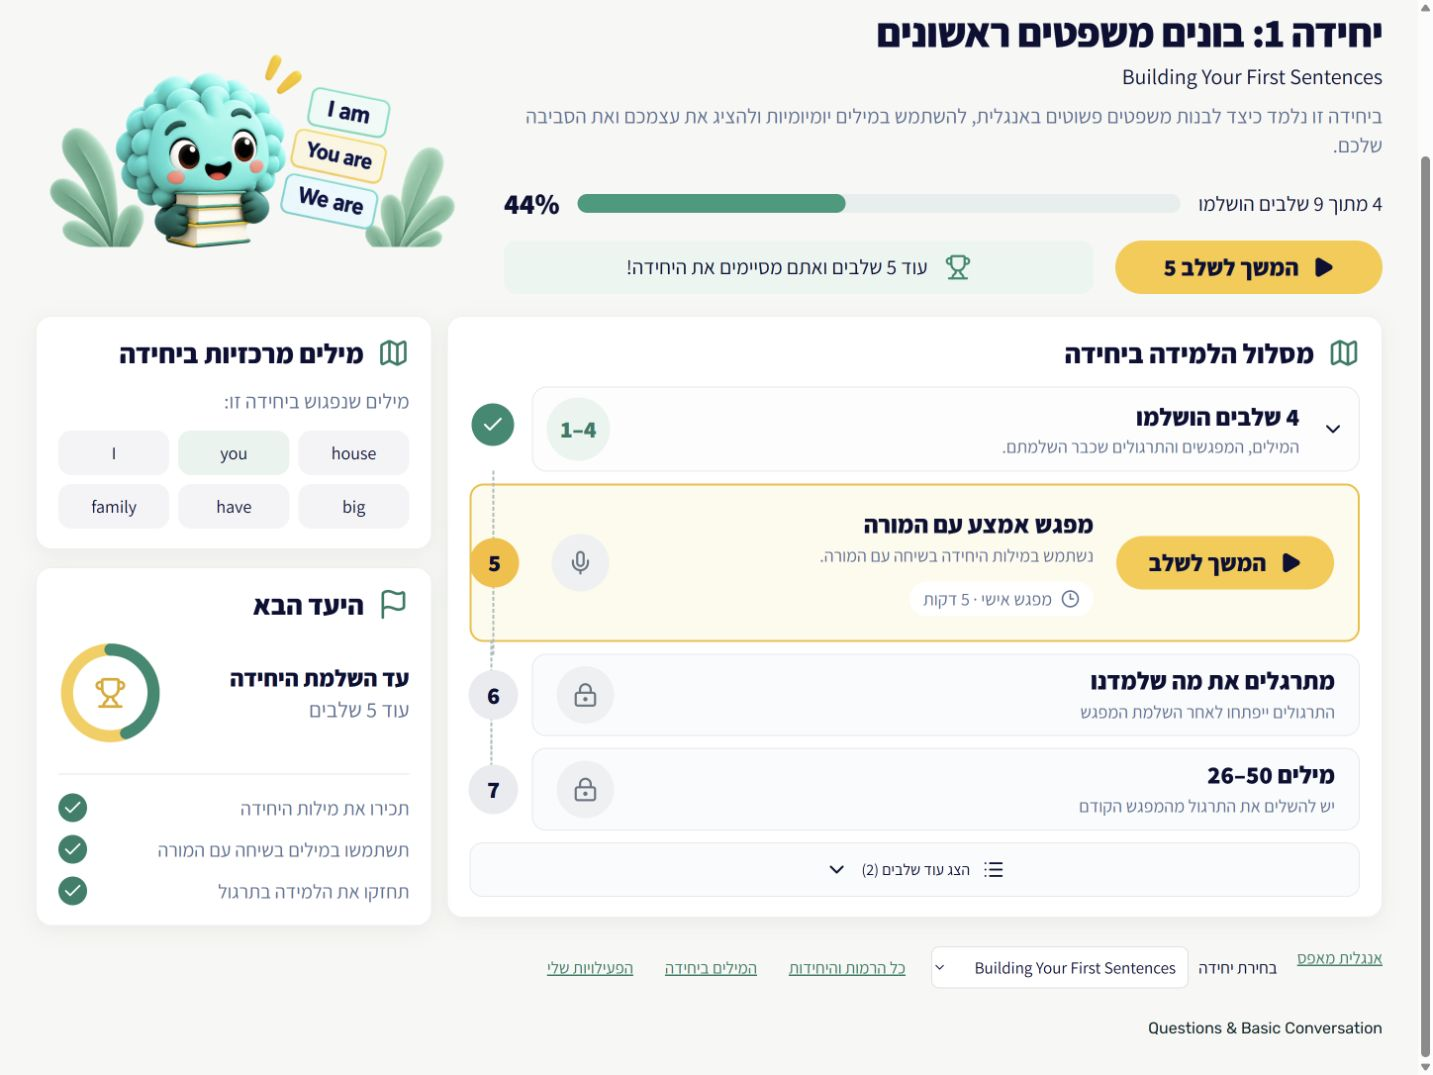
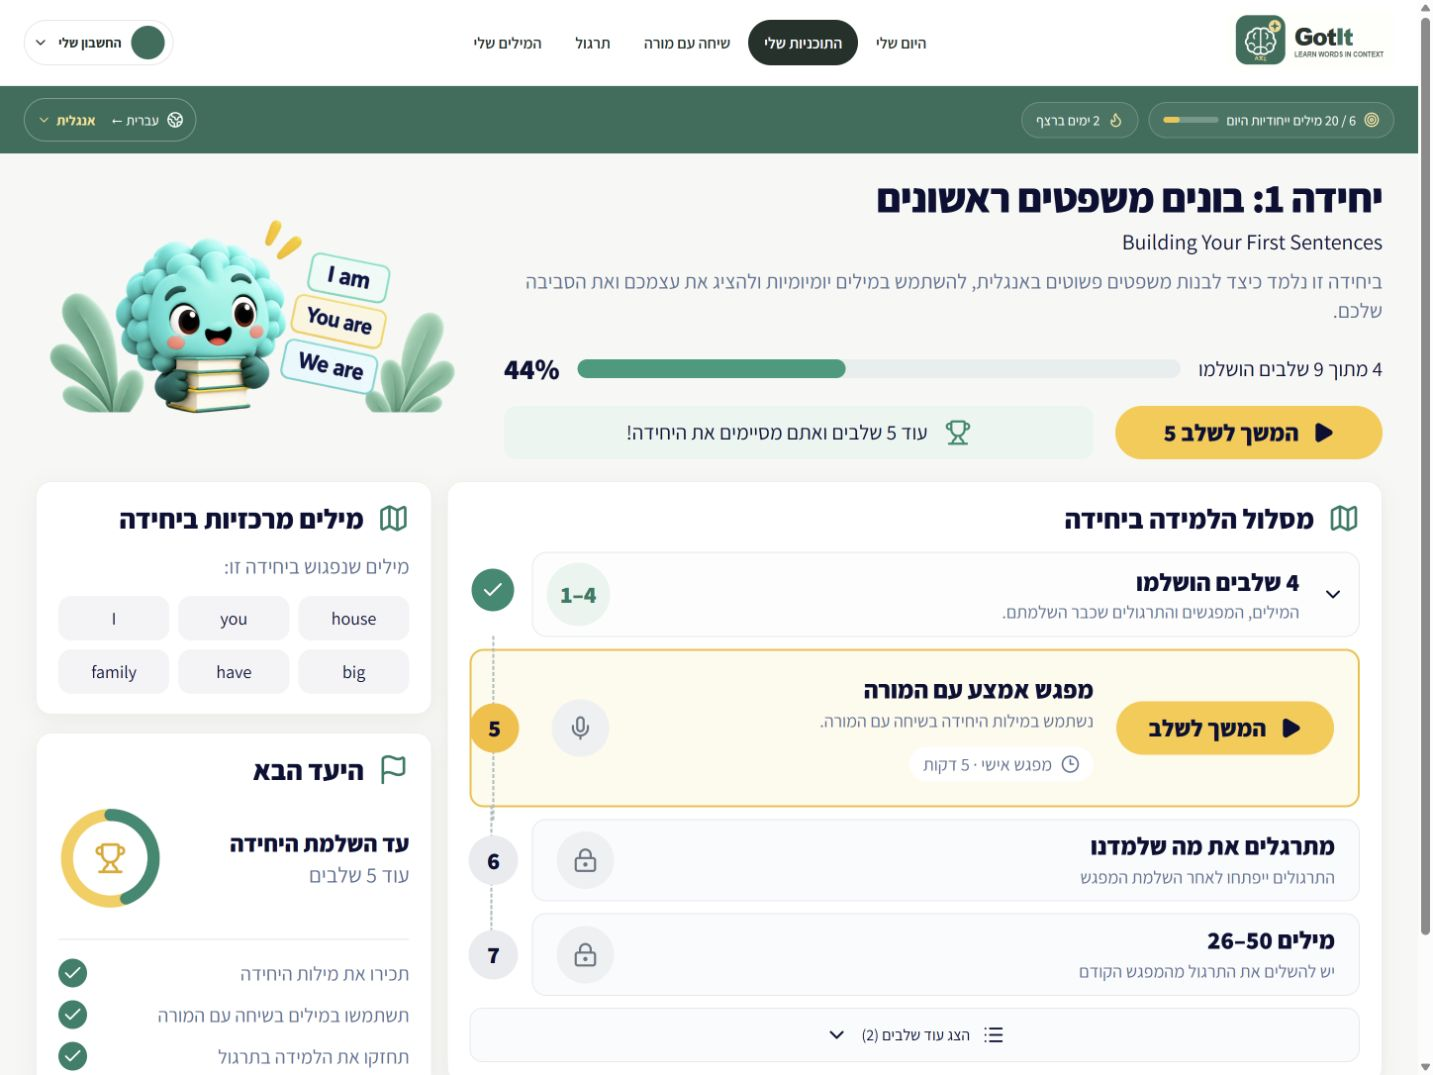
docs(program-map): record DEV release and live acceptance limits

diff --git a/docs/program-map/README.md b/docs/program-map/README.md
@@ -54,4 +54,20 @@ quality 88 without changing composition or alpha. No runtime image-generation
 request/quota. Prompt: `public/assets/program-map/hero.prompt.txt`.
 
 DEV release and authenticated acceptance are recorded in `evidence/release.json`
-once observed. Rollback source: previous live Web `06b1764883f8cef69d9dcac08713e3fa2699a868`.
+with the observed final Live release. Rollback source: previous live Web `06b1764883f8cef69d9dcac08713e3fa2699a868`.
+
+Final live-acceptance fixes: null homework duration is omitted (regression covered);
+map-scoped container selector wins over legacy shell width. The preview now includes
+all actual global styles and focus/path classes. See exact DEV release evidence.
+
+Known live data limitation: selecting Unit 2 returned a response rejected by the
+unchanged strict unit-path parser, including after explicit read retry. The map
+shows its localized error/retry state and no fabricated progress. Unit 1 map,
+word-browser navigation and return passed; no provider or homework preparation
+was triggered. This task does not weaken the shared contract to hide invalid data.
+
+Final DEV Web source: `edfdb63c3d64a6684cf09891fd980815940e2b0d`, Render deployment
+`dep-db75pess728c73dhlo9g`, Deploy succeeded / Live in 1m03s. Final authenticated
+unit-1 desktop and 320px smoke passed; zero console error/warning logs. `/ready`
+returned 200. See the known Unit 2 contract-validation limitation above. No lesson,
+provider, score, reward, migration or production action was performed.

diff --git a/design-qa.md b/design-qa.md
@@ -66,4 +66,21 @@ ESLint and production build passed. Full responsive suite and physical-device
 acceptance were not run. Existing bundle-size warning remains unchanged.
 
 Implementation checklist: completed. Preserve DEV gate and server authority.
+Live acceptance follow-up:
+- Real pending homework returned estimatedMinutes:null. The time chip now renders
+  only a positive server estimate; its regression case passes. No invented default.
+- Actual shell CSS had higher specificity than the isolated fixture. Scoped parent
+  selector now outranks the legacy 1253px rule. Fixture imports the real global
+  styles and focus-shell/path-view-map classes; final desktop capture was repeated.
+- Real account reveals historical non-contiguous word/meeting evidence. The map
+  preserves it, highlights actual pending homework and does not award new progress.
+- Final DEV source is edfdb63c3d64a6684cf09891fd980815940e2b0d; release status and
+  authenticated screenshots are recorded separately in evidence/release.json.
+
+Known live data limitation: Unit 2 response fails the pre-existing strict map
+contract on selection and retry. Its error view is truthful; no fabricated stages
+or progress. Unit 1 real next-homework links, words/return, disclosures, nullable
+estimate suppression and 320px/1448px layouts passed. Full-catalog live acceptance
+is therefore not claimed. Loading/retry now use actual shared locale keys.
+
 final result: passed
